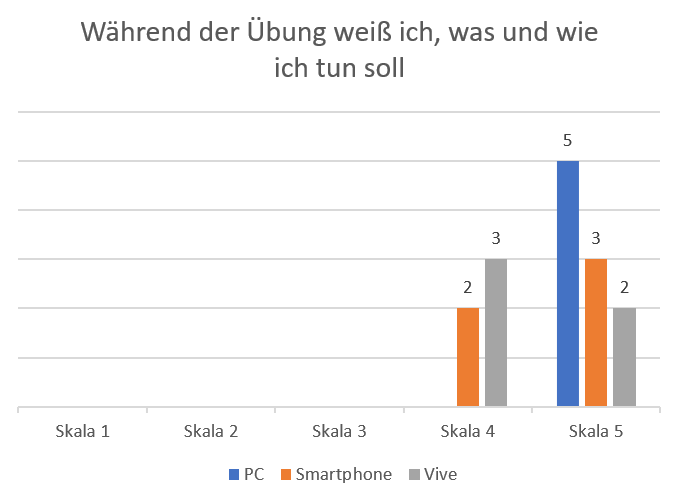
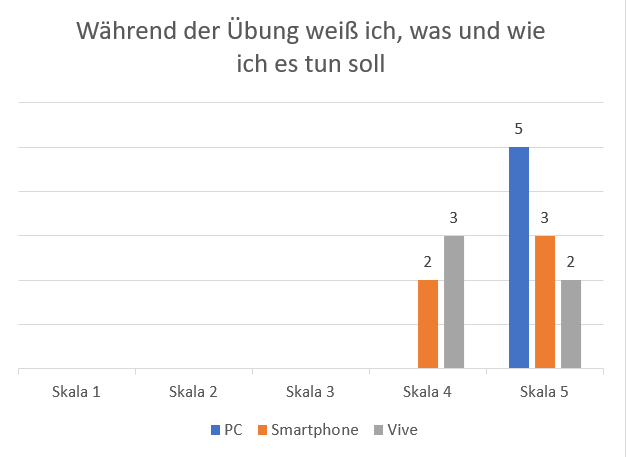
evaluation

diff --git a/05_Evaluation/evaluation.tex b/05_Evaluation/evaluation.tex
@@ -1,23 +1,23 @@
 \chapter{Evaluation}
 
-Um es zu überprüfen, ob die Ziele dieses Projektes erreichtet werden, wird eine Studie durchgeführt. In diesem Kapitel geht es um den Entwurf der Studie und die Analyse über den gesammelten Daten.
+Um es zu überprüfen, ob die Ziele dieses Projektes erreicht werden, wird eine Studie durchgeführt. In diesem Kapitel geht es um den Entwurf der Studie und die Analyse über der gesammelten Daten.
 
 \section{Entwurf der Studie}
 
-Die Hauptziele der Studie sind, der Lerneffekt der VR Übung und die Benutzererfahrung der WebVR Applikation zu beurteilen. Die Studie wird um die Ziele entworfen.
+Die Hauptziele der Studie sind, den Lerneffekt der VR Übung und die Benutzererfahrung der WebVR Applikation zu beurteilen. Die Studie wird um die Ziele herum entworfen.
 
-\subsection{Entwurf der Test und Fragebogen}
+\subsection{Entwurf des Tests und des Fragebogens}
 
-Das Projekt wird von zwei Aspekten austestet. Der Lerneffekt der VR Übung und die Benutzererfahrung der VR Applikation. Deswegen werden die Teile der Studie für jeden Aspekt getrennt entworfen.
+Das Projekt wird hinsichtlich zweier Aspekte getestet: der Lerneffekt der VR Übung und die Benutzererfahrung der VR Applikation. Deswegen werden die Teile der Studie für jeden Aspekt getrennt entworfen.
 
 \subsubsection{Lerneffekt durch die VR Übung}
 
-Da die VR Übung wird in dem Learning Management System Moodle integriert wird, kann der Lerneffekt durch der Test Aktivität überprüft wird. Fünf Aufgaben werden in der Test Aktivität eingefügt, damit von der Reihenfolge der Infusinosvorbereitung bis kleine Forderung eines Abschnitts überprüft werden.
+Da die VR Übung in dem Learning Management System Moodle integriert wird, kann der Lerneffekt durch die Test Aktivität überprüft werden. Fünf Aufgaben werden in der Test Aktivität eingefügt, damit kann von der Reihenfolge der Infusinosvorbereitung bis kleine Forderung eines Abschnitts überprüft werden.
 
 \begin{enumerate}
     \item \textbf{Reihenfolge ordnen}
     
-    Die achten Abschnitte der Infusionsvorbereitung werden ungeordnet dargestellt. Sie sollen nach der richtigen Reihenfolge geordnet werden. Durch diese Aufgabe wird es prüft, ob der Lernende dem Ablauf einer Infusionsvorbereitung eingeprägt ist. (Abbildung ~\ref{fig:Aufgabe1})
+    Die acht Abschnitte der Infusionsvorbereitung werden ungeordnet dargestellt. Sie sollen nach der richtigen Reihenfolge geordnet werden. Durch diese Aufgabe wird geprüft, ob sich der Lernende den Ablauf einer Infusionsvorbereitung eingeprägt hat. (Abbildung ~\ref{fig:Aufgabe1})
     
 \begin{figure}[ht]
 \vspace*{1em}
@@ -30,7 +30,7 @@ Da die VR Übung wird in dem Learning Management System Moodle integriert wird, 
     
     \item \textbf{5R auswählen}
     
-    5R sind die wichtigen Informationen auf der Krankenakte, die während der Vorbereitung zuerst gecheckt werden sollen. Fünf richtige Optionen sollen von 8 Optionen ausgewählt. Durch diese Aufgabe wird es prüft, ob der Lernende gelernt hat, was die wichtigen Informationen für die Infusionsvorbereitung sind. (Abbildung ~\ref{fig:Aufgabe2})
+    5R sind die wichtigen Informationen auf der Krankenakte, die während der Vorbereitung zuerst geprüft werden sollen. Fünf richtige Optionen sollen aus acht Optionen ausgewählt werden. Durch diese Aufgabe wird geprüft, ob der Lernende gelernt hat, was die wichtigen Informationen für die Infusionsvorbereitung sind. (Abbildung ~\ref{fig:Aufgabe2})
     
 \begin{figure}[ht]
 \vspace*{1em}
@@ -42,19 +42,20 @@ Da die VR Übung wird in dem Learning Management System Moodle integriert wird, 
     
     \item \textbf{Status der Rollenkleme}
     
-    Während der Infusionsvorbereitung ist es wichtig, die Rollenkleme auf den entsprechenden Zeitpunkten zu öffnen und schließen. Durch die Aufgabe wird es überprüft, ob der Lernende die richtigen Zeitpunkte gemerkt. (Abbildung ~\ref{fig:Aufgabe3})
+    Während der Infusionsvorbereitung ist es wichtig, die Rollkleme zu den entsprechenden Zeitpunkten zu öffnen und zu schließen. Durch die Aufgabe wird überprüft, ob sich der Lernende die richtigen Zeitpunkte gemerkt hat. (Abbildung ~\ref{fig:Aufgabe3})
     
 \begin{figure}[ht]
 \vspace*{1em}
 \centering
-\caption{Aufgabe: Rollenklemme}
+\caption{Aufgabe: Rollklemme}
 \includegraphics[width= \textwidth]{images/Aufgabe3.png}
 \label{fig:Aufgabe3} 
 \end{figure}
     
     \item \textbf{Handschuhe tragen}
-    
-    Sicherheit ist ein wichtiges Thema. Durch Handschuhe werden die Hände geschützt. Bei dieser Aufgabe werden achte Abschnitte aufgelistet, und einer davon ausgewählt werden soll, während deren Handlung Handschuhe eingetragen werden. Durch diese Aufgabe wird das Sicherheitsbewusstsein des Lernenden überprüft. (Abbildung ~\ref{fig:Aufgabe4})
+    %TODO: nicht nur die Hände werden geschützt; es ist auch hygienischer
+    % Ist so OK? (von Le)
+    Hygiene und Sicherheit sind wichtige Themen. Durch Handschuhe werden nicht nur die Hände geschützt, sondern auch die Handlung hygienisch durchgeführt. Bei dieser Aufgabe werden acht Abschnitte aufgelistet, und einer davon ausgewählt werden soll, während deren Handlung Handschuhe eingetragen werden. Durch diese Aufgabe werden die Sicherheitsbewusstsein und Hygienebewusstsein der Lernenden überprüft. (Abbildung ~\ref{fig:Aufgabe4})
     
 \begin{figure}[ht]
 \vspace*{1em}
@@ -66,7 +67,7 @@ Da die VR Übung wird in dem Learning Management System Moodle integriert wird, 
     
     \item \textbf{Infusionsflasche prüfen}
     
-    Um die Benutzbarkeit der Infusionsflasche zu bestimmen, soll die Infusionsflasche vor der Nutzung gecheckt werden, nämlich die Kappe, die Flüssigkeit und das Etikett. Vier Optionen werden aufgelistet, und die drei richtigen Optionen sollen ausgewählt werden. Durch diese Aufgabe wird es überprüft, ob der Lernende das Bewusstsein haben, die Benutzbarkeit der Materialien zu checken. (Abbildung ~\ref{fig:Aufgabe5})
+    Um die Nutzbarkeit der Infusionsflasche zu bestimmen, soll die Infusionsflasche vor der Nutzung geprüft werden, nämlich die Kappe, die Flüssigkeit und das Etikett. Vier Optionen werden aufgelistet, und die drei richtigen Optionen sollen ausgewählt werden. Durch diese Aufgabe wird es überprüft, ob der Lernende das Bewusstsein hat, die Benutzbarkeit der Materialien zu prüfen. (Abbildung ~\ref{fig:Aufgabe5})
     
 \begin{figure}[ht]
 \vspace*{1em}
@@ -80,20 +81,20 @@ Da die VR Übung wird in dem Learning Management System Moodle integriert wird, 
 
 \subsubsection{Benutzererfahrung der VR Applikation}
 
-Die Benutzererfahrung ist ziemlich subjektiv, deswegen wird ein Fragebogen erstellt, um die Feedbacks der Benutzer zu sammeln.
+Die Benutzererfahrung ist ziemlich subjektiv, deswegen wird ein Fragebogen erstellt, um das Feedback der Benutzer zu sammeln.
 
-Um die Benutzererfahrung umfassend zu berichten, wird der Fragebogen nach den sechs Kategorien \citep{28} entworfen. Da die Benutzererfahrung zusammengefasst ist, ist es schwierig, nach jeder einzigen Kategorie Frage zu stellen. Deswegen können die Fragen auch mehrere Kategorien betreffen.
+Um die Benutzererfahrung umfassend zu berichten, wird der Fragebogen nach den sechs Kategorien \citep{28} entworfen. Da die Benutzererfahrung zusammengefasst ist, ist es schwierig, nach jeder einzigen Kategorie Fragen zu stellen. Deswegen können die Fragen auch mehrere Kategorien betreffen.
 
-Jede Frage besteht aus zwei Teile. Einer davon ist eine pflichte Frage im Form Ratingskalen. Der andere ist eine entsprechende optionale Frage im Form Meinungsfrage.
+Jede Frage besteht aus zwei Teilen. Einer davon ist eine Pflicht-Frage im Form von Ratingskalen. Der andere ist eine entsprechende optionale Frage im Form einer Meinungsfrage.
 
 \begin{enumerate}
     \item Ich habe das Gefühl, wirklich eine Infusion vorzubereiten.
     
-    Wenn nein, was ist die Ursache (z.B. Mangel der Geräusche)?
+    Wenn nein, was ist die Ursache (z.B. Mangel an Geräuschen)?
     
     (Extensiveness, Matching, Surroundness, Vividness, Interactability)
     
-    \item Während der Übung weiß ich, was und wie ich tun soll.
+    \item Während der Übung weiß ich, was und wie ich es tun soll.
     
     Wenn nein, was ist unklar?
     
@@ -111,7 +112,7 @@ Jede Frage besteht aus zwei Teile. Einer davon ist eine pflichte Frage im Form R
 %    
 %    (Interactability, Plot)
     
-    \item  Die Feedbacks der Objekte nach der Interaktion habe ich erwartet. 
+    \item  Das Feedback der Objekte nach der Interaktion habe ich erwartet. 
     
     Wenn nein, was ist unerwartet?
     
@@ -125,7 +126,7 @@ Jede Frage besteht aus zwei Teile. Einer davon ist eine pflichte Frage im Form R
     
 \end{enumerate}
 
-Whiteboard wird als Hilfsmittel entworfen. Um der Effekt des Whiteboards zu untersuchen, werden die Fragen über der Nutzung von Whiteboard in den Formen Entscheidungsfragen und Ratingskalen gestellt.
+Whiteboard wird als Hilfsmittel entworfen. Um den Effekt des Whiteboards zu untersuchen, werden die Fragen über die Nutzung des Whiteboards in den Formen Entscheidungsfragen und Ratingskalen gestellt.
 
 \begin{enumerate}
     \item Ich habe die Hinweise auf dem Whiteboard benutzt.
@@ -140,7 +141,7 @@ Für das ganze Projekt werden die Fragen über der Integration zwischen LMS und 
     
     Wenn nein, was gefällt Ihnen nicht?
 %    
-%    \item Wie gut ist der Lerneffeket im Vergleich mit der realen Praxis? 
+%    \item Wie gut ist der Lerneffekt im Vergleich mit der realen Praxis? 
 \end{enumerate}
 
 Am Ende des Fragebogens werden zwei allgemeine Meinungsfragen gestellt, um die Gedanken der Versuchspersonen zu sammeln.
@@ -153,7 +154,7 @@ Am Ende des Fragebogens werden zwei allgemeine Meinungsfragen gestellt, um die G
 
 \subsection{Entscheidung der Geräten}
 
-Da WebVR cross-plattform ist, wird die Studie mit unterschiedlichen Geräten gemacht. Allerdings ist es wegen der Begrenzung der Zeit und des Mangels an Versuchsperson nicht möglich, mit alle verfügbare Geräten Studie zu machen, deswegen werden drei Geräte entschieden.
+Da WebVR eine cross-plattform ist, wird die Studie mit unterschiedlichen Geräten gemacht. Allerdings ist es wegen der Begrenzung der Zeit und des Mangels an Versuchspersonen nicht möglich, mit allen verfügbaren Geräten die Studie zu machen, deswegen werden drei Geräte zur Studie gewählt.
 
 \begin{itemize}
     \item \textbf{PC}: beste Erreichbarkeit
@@ -163,27 +164,27 @@ Da WebVR cross-plattform ist, wird die Studie mit unterschiedlichen Geräten gem
 
 \subsection{Entwurf des Ablaufs}
 
-Insgesamt 15 Versuchspersonen nehmen die Studie teil. Sie haben kein Vorwissen über Infusionsvorbereitung, damit können die Lerneffekt des Unterrichts und der VR Übung berichtet werden.
+Insgesamt 15 Versuchspersonen nehmen an der Studie teil. Sie haben kein Vorwissen über Infusionsvorbereitung, damit kann der Lerneffekt des Unterrichts und der VR Übung berichtet werden.
 
 Jedes Gerät wird von fünf Versuchspersonen benutzt. Jede Versuchsperson soll die Untersuchung allein machen.
 
-Die Versuchsperson wird gefordert, zuerst mit den drei Materialien (Text, Video und Diagramm) zu lernen, und den Test machen. Das Ergebnis der Tests wird nicht der Versuchsperson informiert, sondern als Controllergruppe gespeichert.
+Die Versuchsperson wird gefordert, zuerst mit den drei Materialien (Text, Video und Diagramm) zu lernen, und den Test zu machen. Das Ergebnis des Tests wird nicht der Versuchsperson mitgeteilt, sondern als Controllergruppe gespeichert.
 
-Danach soll die Versuchsperson die VR Übung machen und den Test noch einmal machen. Die Zwei Ergebnisse werden mit einander vergleicht, um der Effekt der Übung zu finden.
+Danach soll die Versuchsperson die VR Übung machen und den Test noch einmal machen. Die Zwei Ergebnisse werden miteinander verglichen, um den Effekt der Übung zu finden.
 
-Am Ende der Studie soll die Versuchsperson einen Fragebogen erfüllen, um die Benutzererfahrung der WebVR Applikation zu beurteilen.
+Am Ende der Studie soll die Versuchsperson einen Fragebogen ausfüllen, um die Benutzererfahrung der WebVR Applikation zu beurteilen.
 
 \section{Daten der Studie}
 
-Insgesamt 4 Männer und 11 Frauen haben die Studie teilgenommen. 10 Versuchspersonen studieren an der Universität Bielefeld oder Fachhochschule Bielefeld. 5 Versuchspersonen haben das Studium an der Universität Bielefeld abgeschlossen. Das durchschnittliche Alte ist 27.
+Insgesamt vier Männer und elf Frauen haben an der Studie teilgenommen. Zehn Versuchspersonen studieren an der Universität Bielefeld oder Fachhochschule Bielefeld. Fünf Versuchspersonen haben das Studium an der Universität Bielefeld abgeschlossen. Das durchschnittliche Alter ist 27.
 
-Die Daten werden durch den Test und der Fragebogen gesammelt, die der Lerneffekt und die Benutzererfahrung der VR Übung widerspiegeln. Hier werden die auffälligen Daten erzählt.
+Die Daten werden durch den Test und den Fragebogen gesammelt, die den Lerneffekt und die Benutzererfahrung der VR Übung widerspiegeln. Hier werden die auffälligen Daten gelistet.
 
 \subsection{Lerneffekt}
 
-Nach dem Lernen mit dem Unterricht können die Versuchspersonen mindesten 84 Punkte von 100 Punkte erwerben. Besonders wenn man mit PC oder HTC Vive gelernt hat, kann man über 90 Punkte erreichen. (Abbildung ~\ref{fig:testErgebnisse})
+Nach dem Lernen mit dem Unterricht können die Versuchspersonen mindesten 84 Punkte von 100 Punkte erwerben. Besonders wenn mit PC oder HTC Vive gelernt wurde, können über 90 Punkte erreicht werden. (Abbildung ~\ref{fig:testErgebnisse})
 
-Die Testergebnisse nach der VR Übung für alle Geräte sind deutlich besser als vor der VR Übung. Die Verbesserungen mit PC (44.0\%) und HTC Vive (43.3\%) sind fast gleich und viel mehr als mit Smartphone (12.9\%).
+Die Testergebnisse nach der VR Übung für alle Geräte sind deutlich besser als vor der VR Übung. Die Verbesserungen mit PC (44.0\%) und HTC Vive (43.3\%) sind fast gleich und viel gravierender als mit dem Smartphone (12.9\%).
 
 \begin{figure}[ht]
 \vspace*{1em}
@@ -195,17 +196,17 @@ Die Testergebnisse nach der VR Übung für alle Geräte sind deutlich besser als
 
 \subsection{Benutzererfahrung}
 
-Die Vive Benutzer haben fast identisches Gefühl der Immersion, alle haben sich für Skala 4 oder Skala 5 entschieden. Obwohl das immersive Gefühl für die PC Benutzer auch stark, sind die Meinungen nicht einstimmig. Das immersive Gefühl für die Smartphone Benutzer nicht so stark wie die Benutzer mit anderen zwei Geräte. (Abbildung ~\ref{fig:gefuehlWirklich})
+Die Vive Benutzer haben fast ein identisches Gefühl von Immersion, alle haben sich auf der Skala für den Wert 4 oder 5 entschieden. Obwohl das immersive Gefühl für die PC Benutzer auch stark ist, sind die Meinungen nicht einstimmig. Das immersive Gefühl für die Smartphone Benutzer ist nicht so stark wie die Benutzer mit den anderen zwei Geräten. (Abbildung ~\ref{fig:gefuehlWirklich})
 
 \begin{figure}[ht]
 \vspace*{1em}
 \centering
-\caption{Ergenisse für Immersion}
+\caption{Ergebnisse für Immersion}
 \includegraphics[width= \textwidth]{images/gefuehlWirklich.png}
 \label{fig:gefuehlWirklich} 
 \end{figure}
 
-Alle Versuchspersonen haben positive Feedbacks gegeben, wenn es gefragt, ob sie wissen, was und wie zu tun. (Abbildung ~\ref{fig:wasWie})
+Alle Versuchspersonen haben positives Feedback gegeben, wenn gefragt wird, ob sie wissen, was und wie es zu tun ist. (Abbildung ~\ref{fig:wasWie})
 
 \begin{figure}[ht]
 \vspace*{1em}
@@ -215,22 +216,22 @@ Alle Versuchspersonen haben positive Feedbacks gegeben, wenn es gefragt, ob sie 
 \label{fig:wasWie} 
 \end{figure}
 
-Die PC und Vive Benutzer können die Zielobjekte ziemlich mühelos finden. Allerdings ist es nicht einfach für Smartphone Benutzer, 2 von 5 Smartphone Benutzer haben negative Feedback gegeben. (Abbildung ~\ref{fig:muehelosFinden})
+Die PC und Vive Benutzer können die Zielobjekte ziemlich mühelos finden. Allerdings ist es nicht einfach für die Smartphone Benutzer, zwei von fünf Smartphone Benutzern haben negatives Feedback gegeben. (Abbildung ~\ref{fig:muehelosFinden})
 
 \begin{figure}[ht]
 \vspace*{1em}
 \centering
-\caption{Zielobjekte zu finden}
+\caption{Zielobjekte finden}
 \includegraphics[width= \textwidth]{images/mueelosFinden.png}
 \label{fig:muehelosFinden} 
 \end{figure}
 
-Alle Vive Benutzer haben die beste Bewertung für die Feedbacks der Objekte gegeben. Obwohl die meisten Benutzer von PC und Smartphone auch die Beste Beurteilung gegeben haben, denken 3 Benutzer, dass die Reaktionen der Objekte nicht ganz gleich wie ihre Erwartungen sind. (Abbildung ~\ref{fig:feedbacksDerObjekte})
+Alle Vive Benutzer haben die beste Bewertung für das Feedback der Objekte gegeben. Obwohl die meisten Benutzer von PC und Smartphone auch die beste Beurteilung gegeben haben, denken drei Benutzer, dass die Reaktionen der Objekte nicht ganz ihren Erwartungen entsprechen. (Abbildung ~\ref{fig:feedbacksDerObjekte})
 
 \begin{figure}[ht]
 \vspace*{1em}
 \centering
-\caption{Feedbacks der Objekte}
+\caption{Feedback der Objekte}
 \includegraphics[width= \textwidth]{images/feedbacksDerObjekte.png}
 \label{fig:feedbacksDerObjekte} 
 \end{figure}
@@ -244,20 +245,19 @@ Durch die Analyse der gesammelten Daten, werden die Erfolge und die Probleme des
 \begin{itemize}
     \item \textbf{Lerneffekt der VR Übung}
     
-    Der Fortschritt nach der VR Übung ist deutlich, 10 bis 29 Punkte werden mehr erworben. Es passierte Während der Studie zwei Mal, dass der Versuchsperson bei dem erstmaligen Test schon alle Fragen richtige geantwortet hat. Allerdings habe sie die Erfahrung, dass sie nicht 100\% sicher für die Antworten bei dem erstmaligen Test. Nach der VR Übung überzeugten sie volle, dass sie alle Punkte kriegen könnten.
+    Der Fortschritt nach der VR Übung ist deutlich, 10 bis 29 Punkte werden mehr erworben. Es passiert während der Studie zwei Mal, dass die Versuchsperson bei dem erstmaligen Test schon alle Fragen richtig beantwortet hat. Allerdings habe sie die Erfahrung, dass sie nicht 100\% sicher für die Antworten bei dem erstmaligen Test ist. Nach der VR Übung kam die Überzeugen, dass sie alle Punkte kriegen könnten.
     
     \item \textbf{Hinweise auf dem Whiteboard}
     
-    Alle Versuchspersonen haben die Hinweise benutzt und glauben, dass die Hinweise volle hilfreich sind.
+    Alle Versuchspersonen haben die Hinweise benutzt und glauben, dass die Hinweise sehr hilfreich sind.
     
-    \item \textbf{Integration der VR Übung in dem Unterricht}
+    \item \textbf{Integration der VR Übung in den Unterricht}
     
-    Alle Versuchspersonen sind der Meinung, dass die VR Übung sehr gut in dem Unterricht integriert wird. Inhaltlich wiederholt die VR Übung die Kenntnisse. Äußerlich gilt die VR Übung als eine Aktivität des Unterrichts.
+    Alle Versuchspersonen sind der Meinung, dass die VR Übung sehr gut in den Unterricht integriert wird. Inhaltlich wiederholt die VR Übung die Kenntnisse. Äußerlich gilt die VR Übung als eine Aktivität des Unterrichts.
     
     \item \textbf{Geräusche Feedbacks}
     
-    Es kann passieren, dass es keine Reaktion des Zielobjektes nach der Interaktion gibt, deswegen gelten die Geräusche als die zuverlässigen Feedbacks für jede Interaktion.
-    
+    Es kann passieren, dass es keine Reaktion des Zielobjektes nach der Interaktion gibt, deswegen gelten die Geräusche als zuverlässiges Feedback für jede Interaktion.
     
 \end{itemize}
 
@@ -265,31 +265,31 @@ Durch die Analyse der gesammelten Daten, werden die Erfolge und die Probleme des
 \begin{itemize}
     \item \textbf{Objekte schwer zu finden (Smartphone > PC > Vive)}
     
-    Das Problem erscheint auf alles drei Geräten. Das Problem auf Smartphone und PC ist schlimmer als auf HTC Vive. Es gibt zwei Gründe für die Schwierigkeit, die Objekte zu finden.
+    Das Problem erscheint auf allen drei Geräten. Das Problem auf Smartphone und PC ist dabei gravirender als auf HTC Vive. Es gibt zwei Gründe für die Schwierigkeit, die Objekte zu finden.
     
-    Der erste Grund ist, dass die Umgebung und die Objekte für die Versuchspersonen, die kein Pflege-Studenten sind, fremd sind. Es passierte mehrere Mal, dass die Versuchspersonen nicht wissen, wo die Krankenakte und die Einmalhandschuhe gelegt werden, weil die Krankenakte geschlossen ist und der Spender für Einmalhandschuhe nicht bekannt ist.
+    Der erste Grund ist, dass die Umgebung und die Objekte für die Versuchspersonen, die keine Pflege-Studenten sind, fremd sind. Es passiert mehrere Male, dass die Versuchspersonen nicht wissen, wo die Krankenakte und die Einmalhandschuhe abgelegt werden, weil die Krankenakte geschlossen ist und der Spender für Einmalhandschuhe nicht bekannt ist.
     
     Der zweite Grund ist, dass die Ansicht der Smartphones klein ist. Die Hängeschränke sind sogar nicht in der Sicht des Smartphones nach der Initialisierung.
     
-    Um das Problem zu lösen, sollen die Umgebung und die Objekte in dem Unterricht als Vorwissen vorgestellt werden, oder soll eine Leitung über der Umgebung und den Objekten in der VR Umgebung vor dem Start der Übung geboten.
+    Um das Problem zu lösen, sollen die Umgebung und die Objekte in den Unterricht als Vorwissen vorgestellt werden, oder soll eine Leitung über der Umgebung und den Objekten in der VR Umgebung vor dem Start der Übung geboten werden.
   
     \item \textbf{Fehlen des aktiven Hinweises}
     
-    In der VR Umgebung wird die Hinweise durch das Whiteboard dargestellt. Allerdings ist es ein passives Angebot. Das heißt, dass die Hinweise ignoriert werden, wenn der Benutzer nicht an dem Whiteboard schaut. Deswegen passiert es, dass die Versuchsperson lange Zeit auf den falschen Objekten konzentriert, weil er nicht rechtzeitig an dem Whiteboard schaut.
+    In der VR Umgebung werden die Hinweise durch das Whiteboard dargestellt. Allerdings ist es ein passives Angebot. Das heißt, dass die Hinweise ignoriert werden, wenn der Benutzer nicht zum Whiteboard schaut. Deswegen passiert es, dass sich die Versuchsperson lange Zeit auf ein falsches Objektes konzentriert, weil er nicht rechtzeitig an das Whiteboard schaut.
     
     Um das Problem zu lösen, soll ein aktiver Hinweis eingesetzt werden, d.h. direkt vor den Augen in den richtigen Zeiträumen darzustellen. Der Hinweis kann ein Vorschlag sein, das Whiteboard anzuschauen.
     
     \item \textbf{Die Entfernung der Einmalhandschuhe nicht deutlich}
     
-    Nach der Desinfektion der Arbeitsfläche werden die Merkmale der Einmalhandschuhe (Einmalhandschuhe Modell vor den Augen in PC und Smartphone und blauer Farbe auf der Hände in Vive) entfernt. Aber die Entfernung ist nicht deutlich, weil es keine Animation dafür gibt. Sodass merken manche Versuchspersonen nicht, wann die Handschuhe entfernt werden.
+    Nach der Desinfektion der Arbeitsfläche werden die Merkmale der Einmalhandschuhe (Einmalhandschuhe Modell vor den Augen in PC und Smartphone und blauer Farbe auf die Hände in Vive) entfernt. Aber die Entfernung ist nicht deutlich, weil es keine Animation dafür gibt. Sodass manche Versuchspersonen nicht merken, wann die Handschuhe entfernt werden.
     
     Mit einer Animation für die Entfernung kann das Problem behoben werden.
     
-    \item \textbf{Fehlen der Feedbacks nach der Prüfung für Infusionsflasche und Infusionsbesteck mit PC und Smartphone}
+    \item \textbf{Fehlen des Feedback nach der Prüfung für Infusionsflasche und Infusionsbesteck mit PC und Smartphone}
     
-    Wenn PC und Smartphone benutzt werden, gelten die Bewegungen der der Infusionsflasche und der Infusionsbesteck als die Feedbacks der Prüfung anstatt der Hacken auf den gecheckten Positionen. Allerdings sind solche Feedbacks nicht deutlich, sodass werden die Schwerpunkte der Überprüfung nicht gemerkt.
+    Wenn PC und Smartphone benutzt werden, gelten die Bewegungen der der Infusionsflasche und der Infusionsbesteck als die Feedbacks der Prüfung anstelle des Haken auf den geprüften Positionen. Allerdings ist ein solches Feedback nicht deutlich, sodass die Schwerpunkte der Überprüfung nicht gemerkt werden.
     
-    Um das Problem zu lösen, sollen die Hacken nach der entsprechenden Prüfung dargestellt.
+    Um das Problem zu lösen, sollen die Haken nach der entsprechenden Prüfung dargestellt werden.
 \end{itemize}
 
 

diff --git a/06_Discussion/discussion.tex b/06_Discussion/discussion.tex
@@ -4,37 +4,37 @@ Durch die Studie werden der Lerneffekt und die Benutzererfahrung der VR Übung u
 
 \section{Erreichung der Ziele}
 
-Im Kapitel Einleitung werden sechs Ziele für das Projekt eingesetzt. Durch die Evaluation des Projektes wird es bestimmen, ob diese Ziele erreicht werden. Hier werden die Ergebnisse für alle Ziele erzählt:
+Im Kapitel Einleitung werden sechs Ziele für das Projekt gesetzt. Durch die Evaluation des Projektes wird bestimmt, ob diese Ziele erreicht werden. Hier werden die Ergebnisse für alle Ziele aufgelistet:
 
 \begin{enumerate}[labelsep=1ex]
 	\renewcommand{\labelenumi}{\textbf{Z\theenumi.}}
-	\item Ein Unterricht mit VR Übung wird in Moodle erstellt. Der Lerneffekt ist deutlich. Alle neun Versuchspersonen haben den Test über Infusionsvorbereitung durchschnittlich mit der Note 91 von 100 bestanden. Im Durchschnitt erwarb pro Versuchsperson bei dem Test nach der Übung 22 Punkte mehr als dem Test vor der VR Übung.
+	\item Ein Unterricht mit VR Übung wird in Moodle erstellt. Der Lerneffekt ist deutlich. Alle neun Versuchspersonen haben den Test über Infusionsvorbereitung durchschnittlich mit der Note 91 von 100 bestanden. Im Durchschnitt erwarb eine Versuchsperson bei dem Test nach der Übung 22 Punkte mehr als dem Test vor der VR Übung.
 	
-	\item Die VR Übung kann auf PC, Smartphone, Samsung Gear VR und HTC Vive durchgeführt werden. Mit PC, Smartphone und HTC Vive wird Studie gemacht. Durchschnittlich 4,1 von 5 Punkte geben, wenn die Frage gestellt wird, ob man das Gefühl hat, wirklich eine Infusion vorzubereiten.
+	\item Die VR Übung kann auf PC, Smartphone, Samsung Gear VR und HTC Vive durchgeführt werden. Mit PC, Smartphone und HTC Vive wird die Studie gemacht. Durchschnittlich werden 4,1 von 5 Punkte geben, wenn die Frage gestellt wird, ob man das Gefühl hat, wirklich eine Infusion vorzubereiten.
 	
-	\item Keine Installation oder Aktualisierung der WebVR Applikation wird gefordert. Die WebVR Applikation kann direkt durch das eingegebene URL in Browser aufgerufen werden.
+	\item Keine Installation oder Aktualisierung der WebVR Applikation wird gefordert. Die WebVR Applikation kann direkt durch die eingegebene URL im Browser aufgerufen werden.
 	
 	\item Ring Zeiger wird auf PC, Smartphone, Gear VR eingesetzt. Raycaster wird für Gear VR Controller eingesetzt. Die Funktion der Hände wird für HTC Vive eingesetzt.
 	
-	\item Die Zielobjekte können während der Übung mühelos gefunden werden. Das Whiteboard bietet die Hinweise für den nächsten Schritt, was sehr hilfreich von den Versuchspersonen bewertet wird. Die Feedbacks der Objekte entsprechen die Erwartung der Versuchspersonen.
+	\item Die Zielobjekte können während der Übung mühelos gefunden werden. Das Whiteboard bietet die Hinweise für den nächsten Schritt, was von den Versuchspersonen für sehr hilfreich befunden wird. Das Feedback der Objekte entspricht den Erwartungen der Versuchspersonen.
 	
-	\item Die VR Übung wird durch die Links in dem Unterricht aufgerufen. Und durch das gezeigte Link auf dem Whiteboard in der VR Umgebung können die Versuchspersonen wieder zurück zum Unterricht geleitet werden. Alle Versuchspersonen finden, dass die VR Übung sehr gut mit dem Unterricht verbunden wird.
+	\item Die VR Übung wird durch die Links in dem Unterricht aufgerufen. Und durch den gezeigten Link auf dem Whiteboard in der VR Umgebung können die Versuchspersonen wieder zurück zum Unterricht geleitet werden. Alle Versuchspersonen finden, dass die VR Übung sehr gut mit dem Unterricht verbunden wird.
 	
 \end{enumerate}
 
-Zusammenfassend kann es bestimmt werden, dass das Projekt die Ziele erreicht.
+Zusammenfassend kann behauptet werden, dass das Projekt die Ziele erreicht hat.
 
 \section{Probleme der WebVR Applikation}
 Obwohl die Ziele erreicht werden, sollen die Probleme bei der WebVR Applikation nicht ignoriert werden. Hier werden die Probleme aus den Aspekten Entwicklung und Einsetzung erzählt.
 
 \subsection{Entwicklung}
 
-Bei dem Framework A-Frame feht es zurzeit noch wichtigen built-in Funktionen und stabiler Entwicklungsumgebung, was von den Game Engines (Unity und Unreal Engine) angeboten wird, deswegen werden Probleme getroffen während der Entwicklung. 
+Bei dem Framework A-Frame fehlt es zurzeit noch an wichtigen built-in Funktionen und stabiler Entwicklungsumgebung, was von den Game Engines (Unity und Unreal Engine) angeboten wird, deswegen werden Probleme getroffen während der Entwicklung. 
 
 \begin{itemize}
-    \item \textbf{Mangel an den built-in Funktionen}: Bei A-Frame fehlt es wichtig Funktionen wie Kollisionserkennung und freier Fall, die von Unity und Unreal Engine als buit-in Funktionen geboten werden. Das führt zu Zeitaufwand und schlechte Qualität der Applikation, wenn keine genügende Zeit zu Verfügung steht.
+    \item \textbf{Mangel an built-in Funktionen}: Bei A-Frame fehlen wichtig Funktionen wie Kollisionserkennung und freier Fall, die von Unity und Unreal Engine als buit-in Funktionen geboten werden. Das führt zu hohem Zeitaufwand und schlechter Qualität der Applikation, wenn nicht genügend Zeit zu Verfügung steht.
     
-    \item \textbf{Schlechte Erfahrung bei Debug}: Breakpoint ist ein hilfreiches Debug-Werkzeug für Software Entwicklung. In Browser wird auch das Breakpoint geboten. Allerdings passt es nicht an der Entwicklung von HTC Vive. Wenn die WebVR Applikation sich durch breakpoint pausiert, wird die VR Umgebung nach der Übersprung des Breakpints nicht mehr in HMD gezeigt, so dass das Debug nur mit der Funktion \glqq console.log() \grqq\ durchgeführt werden kann, was zu Zeitaufwand führt.
+    \item \textbf{Schlechte Erfahrung bei Debug}: Breakpoint ist ein hilfreiches Debug-Werkzeug für Software Entwicklung. In Browser wird auch das Breakpoint geboten. Allerdings passt es nicht an der Entwicklung von HTC Vive. Wenn die WebVR Applikation sich durch breakpoint pausiert, wird die VR Umgebung nach dem Übersprung des Breakpints nicht mehr in HMD gezeigt, so dass das Debuggen nur mit der Funktion \glqq console.log() \grqq\ durchgeführt werden kann, was zu hohem Zeitaufwand führt.
     
 \end{itemize}
 
@@ -43,16 +43,16 @@ Bei dem Framework A-Frame feht es zurzeit noch wichtigen built-in Funktionen und
 Die Installation und Aktualisierung für webbasierte Applikation sind kein Thema. Jedoch gibt es noch unüberbrückbare Probleme bei der Einsetzung.
 
 \begin{itemize}
-    \item \textbf{Abhängigkeit von Browsers}: Browsers spielen wichtige Rolle für webbasierten Applikationen. Der Endeffekt der Applikation auf unterschiedlichen Browsers könnte anders sein, deswegen wird die WebVR Applikation für unterschiedlichen Browsers angepasst. Allerdings könnte die Aktualisierung des Browsers zur Änderung des Endeffektes führen. Deshalb soll die VR Übung regelmäßig pflegt werden.
+    \item \textbf{Abhängigkeit von Browsers}: Browser spielen eine wichtige Rolle bei webbasierten Applikationen. Das Endergebnis der Applikation auf unterschiedlichen Browsern könnte anders sein, deswegen wird die WebVR Applikation für unterschiedlichen Browser angepasst. Allerdings könnte die Aktualisierung des Browsers zur Änderung des Endergebnisses führen. Deshalb soll die VR Übung regelmäßig gepflegt werden.
     
-    \item \textbf{Begrenzte Größe der Applikation}: Die ganze WebVR Applikation wird bei jedem Aufruf heruntergeladen, deswegen entscheidet die Größe der Applikation für die Geschwindigkeit, die Applikation zu laden. Auf diesem Grund kann die WebVR Applikation nicht groß sein, was die Qualität der Modell und die Menge der Soundeffekts beschränkt.
+    \item \textbf{Begrenzte Größe der Applikation}: Die ganze WebVR Applikation wird bei jedem Aufruf heruntergeladen, deswegen entscheidet die Größe der Applikation über die Geschwindigkeit, die Applikation zu laden. Aus diesem Grund kann die WebVR Applikation nicht groß sein, was die Qualität der Modelle und die Menge der Soundeffekte beschränkt.
 \end{itemize}
 
 \section{Ausblick}
 
-Obwohl wegen der technischen Probleme ist die VR Übung nicht optimal, werden alle Ziele dieses Projektes erreichtet. Außerdem hat die VR Übung laut der Studie sehr guten Lerneffekt.
+Obwohl wegen der technischen Probleme die VR Übung nicht optimal ist, werden alle Ziele dieses Projektes erreichtet. Außerdem hat die VR Übung laut der Studie einen sehr guten Lerneffekt.
 
-Zurzeit sind einige Probleme nicht überwindbar. Allerdings werden solchen Problem in der Zukunft wegen der Entwicklung der Infrastruktur (höhere Internet-Geschwindigkeit) und die WebVR Technik (bessere Werkzeugen) erhoben.
+Zurzeit sind einige Probleme nicht lösbar. Allerdings werden solche Probleme in der Zukunft wegen der Entwicklung der Infrastruktur (höhere Internet-Geschwindigkeit) und die WebVR Technik (bessere Werkzeuge) behoben.
 
-Webbasierte Applikation ist den Trend der Entwicklung, und wird schon im Bereich E-Learning weit verbreitet. Als die neuen Teile der webbasierten Technik werden WebVR und WebAR in mehreren Bereichen eingesetzt.
+Webbasierte Applikation ist den Trend der Entwicklung, und wird schon im Bereich E-Learning weit verbreitet. Als neuer Teil der webbasierten Technik werden WebVR und WebAR in mehreren Bereichen eingesetzt.
 

diff --git a/04_Implementation/implementation.tex b/04_Implementation/implementation.tex
@@ -15,7 +15,7 @@ Viele LMS werden auf dem Markt angeboten. Eine geeignete Plattform für das Proj
  In Moodle können auch Arbeitsmaterialien wie Bücher, Dateien, Links usw. angeboten werden. Bei diesem Projekt wird der Nutzer durch den URLs in Moodle zu der WebVR Applikation geleitet, wie die erste Form, die in dem Kapitel Konzeption beschrieben wird. 
  
  \subsection{Unterricht}
- Bei dem Unterricht zur Infusionsvorbereitung werden fünf Arbeitsmaterialien (drei Links, eine Datei und ein Textseite) und eine Aktivität eingesetzt. Die drei Links leiten jeweils auf einer Erklärung zur Infusionsvorbereitung in Text, einer Erzählung über 5-R-Regel in Text und einem Video über Infusionsvorbereitung auf Youtube um. Die Datei ist ein Diagramm, damit der Ablauf der Vorbereitung einer Infusion graphisch dargestellt wird.
+ Bei dem Unterricht zur Infusionsvorbereitung werden fünf Arbeitsmaterialien (drei Links, eine Datei und ein Textseite) und eine Aktivität eingesetzt (Abbildung ~\ref{fig:unterricht}). Die drei Links leiten jeweils auf einer Erklärung zur Infusionsvorbereitung in Text, einer Erzählung über 5-R-Regel in Text und einem Video über Infusionsvorbereitung auf Youtube um. Die Datei ist ein Diagramm, damit der Ablauf der Vorbereitung einer Infusion graphisch dargestellt wird.
  
  Die Textseite bietet den Zugang der praktischen Übung in VR Umgebung. Über die Methoden der Interaktion für unterschiedliche Geräten wird zuerst informiert. Danach wird der Ablauf mit dem Diagramm noch einmal wiederholt. Und die acht Abschnitte in der Übung werden bezeichnet. Zum Abschluss werden acht Links aufgelistet, die auf dem entsprechenden Abschnitt in der VR Übung umleiten.
  
@@ -23,7 +23,12 @@ Viele LMS werden auf dem Markt angeboten. Eine geeignete Plattform für das Proj
  
  Die VR Übung und der Test sind wiederholbar, um den Lernenden zu helfen, die Fertigkeit richtig zu beherrschen.
  
- image: Unterricht und Textseite ......... bis fertig von Unterricht
+\begin{figure}[ht]
+\centering
+\caption{Unterricht über Infusionsvorbereitung auf Moodle}
+\includegraphics[width=\textwidth]{images/unterricht.png}
+\label{fig:unterricht}
+\end{figure}
  
 \section{WebVR Applikation}
 Die Implementierung der WebVR Applikation ist der Schwerpunkt dieses Projektes. Im ersten Teil werden die Realisierungen, die das ganze Projekt betreffen, thematisiert, danach werden die Implementierungen der kleinen Features erklärt.

diff --git a/01_Introduction/introduction.tex b/01_Introduction/introduction.tex
@@ -2,7 +2,7 @@
 
 Die vorliegende Masterarbeit entstand im Rahmen meines Interdisziplinäre Medienwissenschaft-Studiums an der Universität Bielefeld.
  
-Die Idee zu diesem Thema entwickelte sich aus meiner Bachelorarbeit. Das Projekt ist eine Erweiterung meiner Bachelorprojekt mit neue Technik WebVR.
+Die Idee zu diesem Thema entwickelte sich aus meiner Bachelorarbeit. Das Projekt ist eine Erweiterung meines Bachelorprojekt mit neue Technik WebVR.
  
 Ein besonderer Dank gilt Herrn Dr. Thies Pfeiffer und Herrn Paul John für die Betreuung dieser Arbeit.
  
